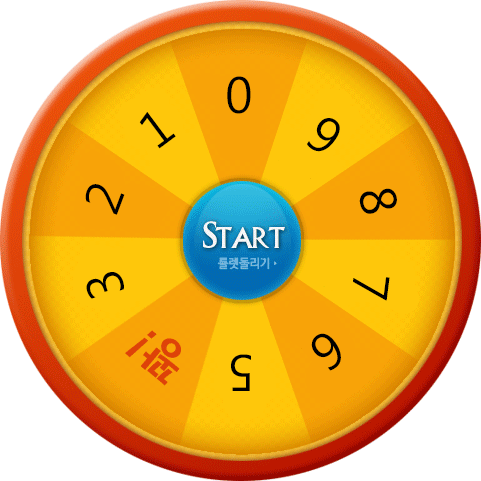
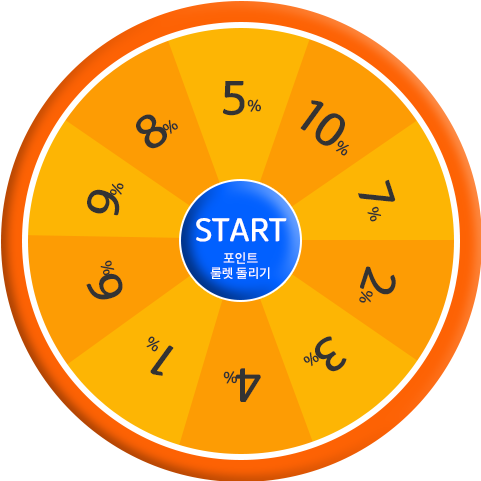
0525 hyoju payment don roulette

diff --git a/src/main/webapp/resources/css/payment/paymentForm.css b/src/main/webapp/resources/css/payment/paymentForm.css
@@ -128,10 +128,7 @@ input[type=radio]{
 				text-align: center;
 			}
 			.amount-btn-div {
-				margin: 60px auto 0;
-				height: 60px;
-				width: 338px;
-				border: solid 1px #fdb504;
+				margin-top: 60px;
 			}
 				input[type=radio]{
 					display: none;
@@ -142,15 +139,9 @@ input[type=radio]{
 					line-height: 58px;
 					font-size: 20px;
 					width: 111px;
-					height: 100%;
-					margin-right: -3px;
+					height: 61px;
+					border: solid 1px #fdb504;
 					background-color: #ffffff;
-				}
-				.amount-btn:not(:last-child) input[type=radio] + span{
-					border-right:solid 1px #fdb504;
-				}
-				.amount-btn:first-child input[type=radio] + span{
-					margin-left: -2px;
 				}
 				.amount-btn input[type=radio]:checked + span{
 					display: inline-block;
@@ -158,9 +149,9 @@ input[type=radio]{
 					font-size: 20px;
 					text-align: center;
 					font-weight: bold;
-					--width: 33%;
-					--height: 61px;
-					--border: solid 1px #fdb504;
+					width: 111px;
+					height: 61px;
+					border: solid 1px #fdb504;
 					background-color: #ffe9b4;
 				}
 

diff --git a/src/main/webapp/resources/css/payment/pointRoulette.css b/src/main/webapp/resources/css/payment/pointRoulette.css
@@ -7,7 +7,7 @@
  }
      .header-background-area > img {
          position: absolute;
-         z-index: 2;
+         z-index: -5;
          display: block;
          top: 0;
          width: 1903px;
@@ -49,7 +49,7 @@ h4 {
 	position: absolute;
 	top: 101px;
 	line-height: 4.7;
-	z-index: 5;
+	z-index: -2;
 }
 
 /* 메인 */
@@ -80,17 +80,23 @@ h4 {
 #roulette-img {
 	display: block;
 	margin: 0 auto;
-	padding-top: 36px;
-	width: 90%;
+	--padding-top: 36px;
+	width: 100%;
 	--height: 100%;
 	z-index:-10;
 }
 #needle {
 	--position:absolute;
 	position: relative;
-	bottom:670px;
+	bottom:700px;
 	left: 350px;
 	z-index: 0;
+}
+
+#start_btn {
+	background-color: blue;
+	width: 150px;
+	height: 150px;
 }
 
 

diff --git a/src/main/java/com/donzzul/spring/payment/controller/PaymentController.java b/src/main/java/com/donzzul/spring/payment/controller/PaymentController.java
@@ -2,6 +2,7 @@ package com.donzzul.spring.payment.controller;
 
 import java.io.IOException;
 import java.util.ArrayList;
+import java.util.HashMap;
 
 import javax.servlet.RequestDispatcher;
 import javax.servlet.ServletException;
@@ -115,10 +116,33 @@ public class PaymentController {
 
 	// 룰렛 포인트 정립
 	@RequestMapping(value = "saveRoulettePoint.dz", method = RequestMethod.POST)
-	public String saveRoulettePoint(HttpServletRequest request, @ModelAttribute User user, Model model) {
-		String winningPoint = request.getParameter("winningPoint"); // 앞단에서 당첨된 포인트
+	public String saveRoulettePoint(HttpSession session, @RequestParam("winning-point") int winPoint, @ModelAttribute User user, Model model) {
+		
+		// 포인트 디비에서 계산하려면
+		// 포인트 컬럼 추가(일단 vo에)
+		// don의 포인트랑 user의 포인트 가져가서 계산
+		
+		// modelattrivbute로 user 가져갈 수 ㅣ잇나?(앞단에서 오는 건가)
+		User loginUser = (User)session.getAttribute("loginUser");
+		
+		
+		System.out.println("당첨포인트-뒷단: "+winPoint); // 앞단에서 당첨된 포인트
+		Don don = new Don();
+		don.setSavePoint(winPoint); // 포인트 담아주기
+		
+		HashMap<String, Object> hash = new HashMap<String, Object>();
+		hash.put("loginUser", loginUser);
+		hash.put("don", don);
+		
+		int result = pService.saveRoulettePoint(hash);
+		if(result > 0) {
+			System.out.println("룰렛 포인트 업데이트 성공!");
+			return "payment/snsPhoto";
+		}else {
+			System.out.println("룰렛 포인트 업데이트 실패");
+			return "common/errorPage";
+		}
 
-		return "";
 	}
 
 	// 인증샷 페이지

diff --git a/src/main/java/com/donzzul/spring/payment/domain/Don.java b/src/main/java/com/donzzul/spring/payment/domain/Don.java
@@ -15,6 +15,9 @@ public class Don {
 	private int shopNo; // 가게번호
 	private String shopName; // 가게이름
 	
+	// test point
+	private int savePoint; // 적립할 포인트
+	
 	public Don() { // 기본 생성자
 		// TODO Auto-generated constructor stub
 	}
@@ -85,11 +88,22 @@ public class Don {
 		this.shopName = shopName;
 	}
 
+	public int getSavePoint() {
+		return savePoint;
+	}
+
+	public void setSavePoint(int savePoint) {
+		this.savePoint = savePoint;
+	}
+
+	
 	@Override
 	public String toString() {
 		return "Don [donNo=" + donNo + ", donPrice=" + donPrice + ", userNo=" + userNo + ", menuName=" + menuName
 				+ ", amount=" + amount + ", paymentDate=" + paymentDate + ", shopNo=" + shopNo + ", shopName="
-				+ shopName + "]";
+				+ shopName + ", savePoint=" + savePoint + "]";
 	}
+
+	
 
 }

diff --git a/src/main/java/com/donzzul/spring/payment/service/PaymentService.java b/src/main/java/com/donzzul/spring/payment/service/PaymentService.java
@@ -1,6 +1,7 @@
 package com.donzzul.spring.payment.service;
 
 import java.util.ArrayList;
+import java.util.HashMap;
 
 import com.donzzul.spring.common.PageInfo;
 import com.donzzul.spring.payment.domain.Don;
@@ -16,7 +17,7 @@ public interface PaymentService {
 					// 포인트 업데이트문 다 계산해서 가져오는 거면 통합할건지 정하고
 	public int usePoint(User user); // 포인트 사용
 	public String selectMyPoint(User user); // 포인트 조회(string인가? user인가)
-	public int saveRoulettePoint(User user); // 룰렛포인트 적립
+	public int saveRoulettePoint(HashMap<String, Object> hash); // 룰렛포인트 적립
 	public int saveReviewPoint(User user);// 리뷰포인트 적립
 	// 결제
 	public int insertDonList(Don don); // 돈쭐내역 업데이트

diff --git a/src/main/java/com/donzzul/spring/payment/store/PaymentStore.java b/src/main/java/com/donzzul/spring/payment/store/PaymentStore.java
@@ -1,6 +1,7 @@
 package com.donzzul.spring.payment.store;
 
 import java.util.ArrayList;
+import java.util.HashMap;
 
 import com.donzzul.spring.common.PageInfo;
 import com.donzzul.spring.payment.domain.Don;
@@ -15,7 +16,7 @@ public interface PaymentStore {
 	
 	public int updatePoint(User user); // 포인트 사용
 	public String selectMyPoint(User user); // 포인트 조회(string인가? user인가)
-	public int updateRoulettePoint(User user); // 룰렛포인트 적립
+	public int updateRoulettePoint(HashMap<String, Object> hash); // 룰렛포인트 적립
 	public int updateReviewPoint(User user);// 리뷰포인트 적립
 	// 결제
 	public int insertDonList(Don don); // 돈쭐내역 업데이트

diff --git a/src/main/java/com/donzzul/spring/payment/store/logic/PaymentStoreLogic.java b/src/main/java/com/donzzul/spring/payment/store/logic/PaymentStoreLogic.java
@@ -1,6 +1,7 @@
 package com.donzzul.spring.payment.store.logic;
 
 import java.util.ArrayList;
+import java.util.HashMap;
 
 import org.apache.ibatis.session.RowBounds;
 import org.mybatis.spring.SqlSessionTemplate;
@@ -33,9 +34,8 @@ public class PaymentStoreLogic implements PaymentStore{
 	}
 
 	@Override
-	public int updateRoulettePoint(User user) {
-		// TODO Auto-generated method stub
-		return 0;
+	public int updateRoulettePoint(HashMap<String, Object> hash) {
+		return sqlSession.update("paymentMapper.updateRoulettePoint", hash);
 	}
 
 	@Override

diff --git a/src/main/java/com/donzzul/spring/payment/service/logic/PaymentServiceImpl.java b/src/main/java/com/donzzul/spring/payment/service/logic/PaymentServiceImpl.java
@@ -1,6 +1,7 @@
 package com.donzzul.spring.payment.service.logic;
 
 import java.util.ArrayList;
+import java.util.HashMap;
 
 import org.springframework.beans.factory.annotation.Autowired;
 import org.springframework.stereotype.Service;
@@ -33,9 +34,8 @@ public class PaymentServiceImpl implements PaymentService{
 	}
 
 	@Override
-	public int saveRoulettePoint(User user) {
-		// TODO Auto-generated method stub
-		return 0;
+	public int saveRoulettePoint(HashMap<String, Object> hash) {
+		return pStore.updateRoulettePoint(hash);
 	}
 
 	@Override
